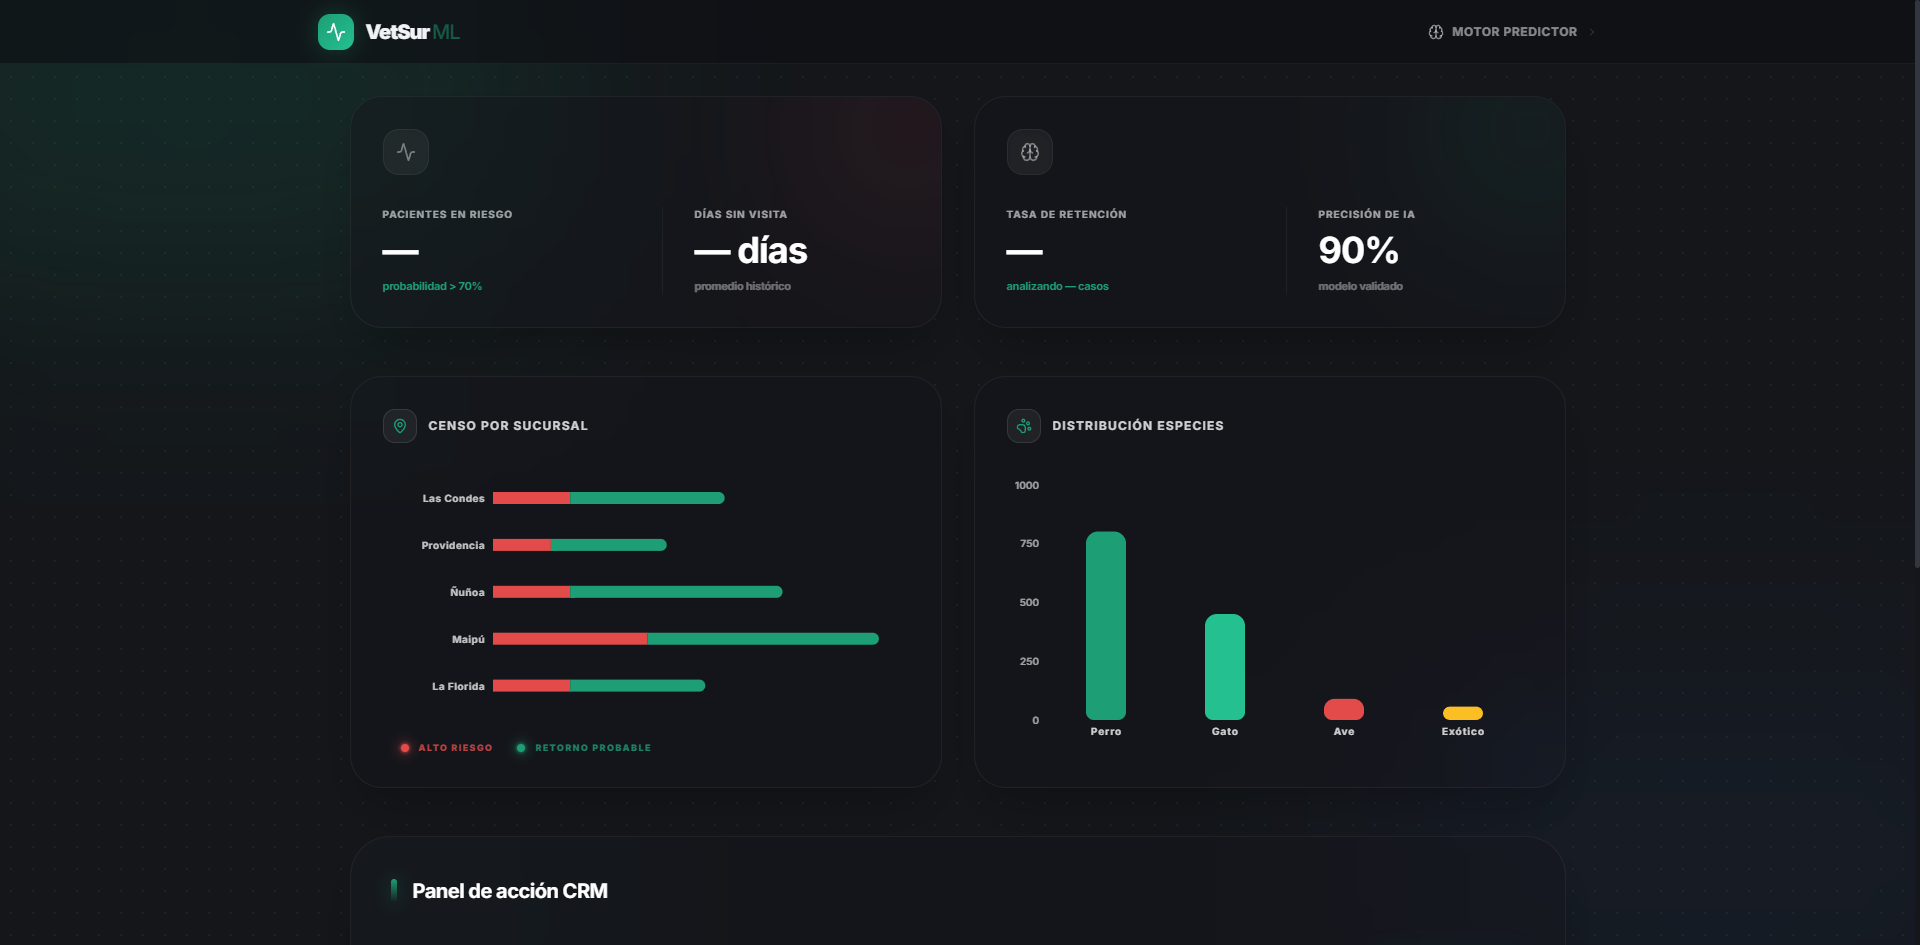
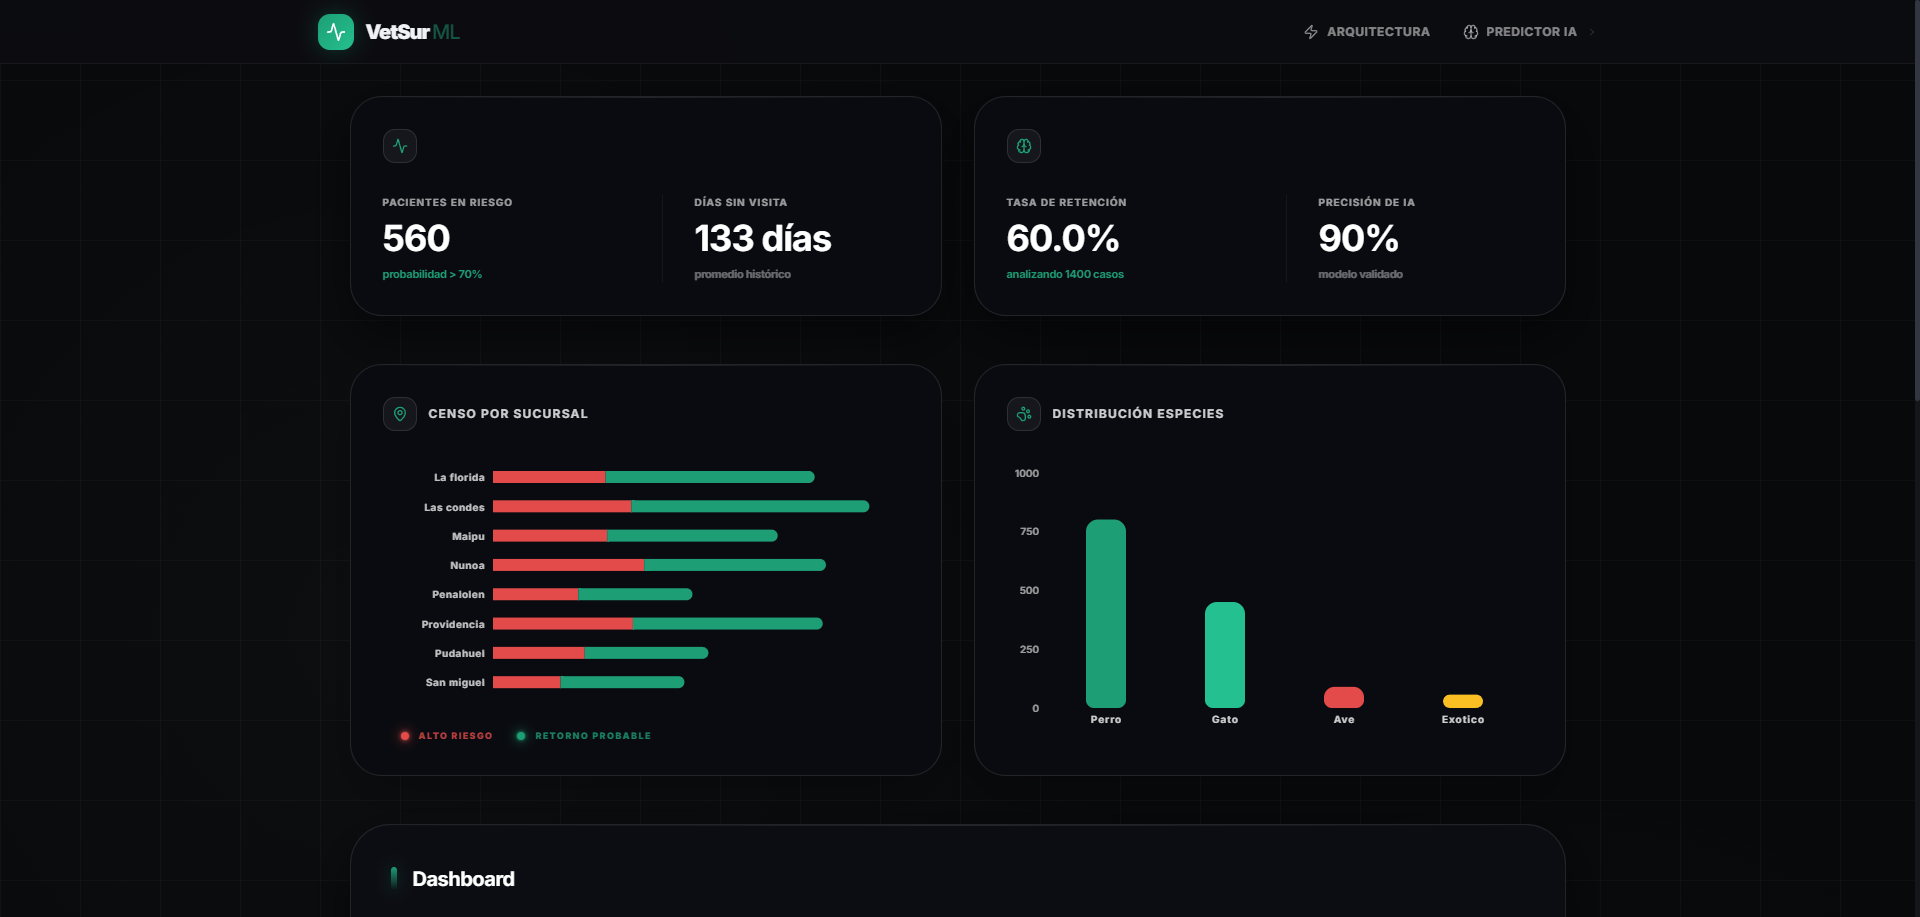
vetsur: actualización final de documentación, diagramas y arquitectura

diff --git a/api/modelo.py b/api/modelo.py
@@ -136,7 +136,7 @@ class ModeloVetSur:
         df_prep['edad_mascota_anios'] = df_clean['edad_mascota_anios'].fillna(0)
         df_prep['raza_registrada'] = df_clean['raza_registrada'].apply(lambda x: 1 if x is True or x == 1 else 0)
 
-        # Mapeo dinámico de variables categóricas (One-Hot Encoding)
+        # Mapeo de variables categóricas (One-Hot Encoding)
         for col in self.columnas_esperadas:
             if col not in df_prep.columns:
                 df_prep[col] = 0

diff --git a/README.md b/README.md
@@ -7,6 +7,7 @@
 [![Docker](https://img.shields.io/badge/Docker-Dockerized-2496ed?style=for-the-badge&logo=docker)](https://www.docker.com/)
 [![scikit-learn](https://img.shields.io/badge/scikit--learn-RF%2086%25-f7931e?style=for-the-badge&logo=scikit-learn)](https://scikit-learn.org/)
 [![TypeScript](https://img.shields.io/badge/TypeScript-Ready-3178c6?style=for-the-badge&logo=typescript)](https://www.typescriptlang.org/)
+[![GitHub Actions](https://img.shields.io/badge/GitHub_Actions-CI/CD-2088FF?style=for-the-badge&logo=github-actions)](https://github.com/features/actions)
 
 ### 🚀 [Acceder a la plataforma en vivo](https://vetsur.daemonize.me)
 
@@ -15,20 +16,32 @@
 ---
 
 ## El desafío del negocio
-> **Nota:** Este proyecto es un **ejercicio académico** basado en un caso de estudio para Vetsur Servicios Veterinarios SpA.
+> **Nota:** este proyecto es un **ejercicio académico** basado en un caso de estudio para Vetsur Servicios Veterinarios SpA.
 
-A pesar de facturar aprox. $2.800 millones anuales, Vetsur operaba con sistemas locales (VetManager) y silos de información. Rodrigo Maturana, el fundador, carecía de visibilidad sobre la rentabilidad real de cada sede y el desempeño de los 47 empleados. 
+Vetsur enfrentaba un escenario crítico: a pesar de facturar aprox. $2.800 millones anuales, la empresa operaba "a ciegas" mediante metodologías de información locales. El objetivo de este proyecto es centralizar esa información y aplicar un ciclo de vida de datos basado en el paradigma **CRISP-DM**:
 
-## Vista del dashboard
+- **Entendimiento y preparación:** el proceso se inició con datos en bruto de **Excel**. Se utilizó **Google Colab** para la limpieza inicial y el análisis exploratorio.
+- **Ingeniería de datos (ETL):** se diseñó un pipeline de transformación para convertir datos ruidosos en conocimiento útil, exportando las características en **JSON** y guardando los metadatos para la inferencia.
+- **Modelado predictivo:** se entrenó un modelo de **Random Forest** para capturar patrones de comportamiento de los pacientes. El modelo final se guardó en formato **PKL**.
+- **Despliegue de producto:** finalmente, se trasladó la lógica del notebook a una arquitectura de microservicios con una **API en FastAPI** y un **frontend** para facilitar la consulta de predicciones.
+
+## Vista de la plataforma
 <p align="center">
-  <img src="docs/vetsur_dashboard_final.png" alt="Dashboard de Vetsur" width="900">
+  <img src="docs/vetsur_dashboard_final.png" alt="Dashboard Principal" width="900">
+  <br><br>
+  <img src="docs/dashboard_usuarios.png" alt="Gestión de Usuarios" width="900">
+  <br><br>
+  <img src="docs/vetsur_predictor_final.png" alt="Predictor de Riesgo" width="900">
 </p>
 
 ## Proceso de ingeniería de datos (ETL)
-No se optó por la eliminación de registros, sino por una reconstrucción lógica documentada en nuestro pipeline:
+En lugar de la eliminación de registros, se optó por reconstruir la lógica de los datos en el pipeline:
 - **Normalización automatizada:** implementación de la librería `ftfy` para reparar la doble decodificación corrupta en variables categóricas.
-- **Imputación estadística:** uso de la **mediana** como medida robusta frente a los valores atípicos (outliers) encontrados en cirugías de alto costo.
-- **Refactorización de esquema:** evolución de un esquema estrella a un **esquema de galaxia**, separando los hechos de atención (`FACT_ATENCION`) de los movimientos de inventario (`FACT_INVENTARIO`).
+- **Codificación categórica:** aplicación de **One-Hot Encoding** para transformar variables como especie, sucursal y tipo de atención en vectores numéricos procesables por el modelo.
+- **Imputación estadística:** uso de la **mediana** como medida robusta frente a los valores atípicos encontrados en cirugías de alto costo.
+
+## Modelado de datos (BI)
+Se evolucionó de un esquema estrella a un **esquema de galaxia**, separando los hechos de atención de los movimientos de inventario:
 
 <p align="center">
   <img src="docs/diagrama_vetsur_final.png" alt="Esquema de galaxia - vetsur" width="800">
@@ -37,29 +50,61 @@ No se optó por la eliminación de registros, sino por una reconstrucción lógi
 </p>
 
 ## Modelado y hallazgos analíticos
-Evaluamos regresión lineal y gradient boosting, pero el ganador indiscutible fue **Random Forest**.
+Se evaluaron modelos de Regresión Lineal y Gradient Boosting, pero el modelo que mejor se adaptó a los datos fue **Random Forest**.
 
 ### Métricas clave del modelo
 - **Precisión (accuracy):** 86%.
-- **Exhaustividad (recall):** 91%. Priorizamos el recall para minimizar los falsos negativos, ya que para Vetsur es más costoso perder un cliente en peligro de fuga que realizar un contacto preventivo innecesario.
+- **Exhaustividad (recall):** 91%. Se buscó maximizar el recall para minimizar los falsos negativos, ya que para Vetsur es más costoso perder un cliente en peligro de fuga que realizar un contacto preventivo innecesario.
 
+
+
+## Despliegue continuo (CI/CD)
+Se ha implementado un flujo automático para garantizar que el sistema sea fácil de mantener y actualizar:
+- **Integración con Docker Hub:** las imágenes del frontend y backend se compilan y suben a un registro externo para no saturar recursos del VPS.
+- **Automatización con GitHub Actions:** cada push a la rama principal dispara el proceso de build y validación.
+- **Despliegue atómico:** el VPS descarga las imágenes nuevas y reinicia los contenedores solo si la compilación fue exitosa.
+
+## Arquitectura de despliegue y stack tecnológico
 <p align="center">
-  <img src="docs/vetsur_predictor_final.png" alt="Predictor de riesgo" width="900">
+  <img src="docs/vetsur.drawio.png" alt="Arquitectura del sistema" width="800">
 </p>
 
-## Arquitectura del sistema (stack pro)
-Diseñamos una infraestructura de microservicios para producción real:
+La plataforma funciona con una infraestructura de microservicios, e incluye una [sección de arquitectura interactiva](https://vetsur.daemonize.me/arquitectura) para explicar el flujo de datos.
 
-- **Backend (FastAPI):** motor de inferencia en Python que carga el Random Forest serializado.
-- **Frontend (Next.js & TypeScript):** interfaz reactiva con filtros dinámicos por sucursal y riesgo.
-- **Infraestructura cloud:**
-    - **Contenerización:** arquitectura orquestada con Docker Compose (API + Front + Nginx).
-    - **Proxy inverso:** Nginx gestionando el enrutamiento y la seguridad SSL.
-    - **VPS (DigitalOcean):** despliegue en un Droplet escalable.
+- **Frontend (interfaz reactiva):**
+    - **Framework:** Next.js 14 (App Router) con TypeScript.
+    - **Diseño:** Interfaz moderna en modo oscuro construida con Tailwind CSS y animaciones fluidas.
+    - **Visualización:** Recharts para los gráficos y Lucide Icons.
+- **Backend (motor de IA):**
+    - **Framework:** FastAPI (Python) para un procesamiento de inferencia de alto rendimiento.
+    - **Ciencia de datos:** Scikit-learn (Random Forest), Pandas para manipulación y NumPy.
+    - **Serialización:** Joblib para la carga eficiente del modelo entrenado.
+- **Infraestructura y DevOps:**
+    - **Contenerización:** arquitectura orquestada con Docker y despliegue mediante Docker Hub.
+    - **CI/CD:** flujos automatizados en GitHub Actions para compilación y despliegue atómico.
+    - **Servidor:** DigitalOcean Droplet protegido por un proxy inverso Nginx con cifrado SSL.
 
 ## Ejecución local
-Clone el repositorio y levante el ecosistema completo con Docker:
+
+### Opción A: con Docker (Recomendado)
+Levante el ecosistema completo (Frontend, Backend y Nginx) con un solo comando:
 ```bash
 docker-compose up -d --build
 ```
-La plataforma se levantará automáticamente en el puerto 3000. 
+
+### Opción B: desarrollo manual (sin Docker)
+Si prefiere ejecutar los servicios por separado para desarrollo:
+
+1. **Backend (Python):**
+   ```bash
+   cd api
+   pip install -r requirements.txt
+   uvicorn main:app --host 0.0.0.0 --port 8008 --reload
+   ```
+
+2. **Frontend (Next.js):**
+   ```bash
+   cd frontend
+   npm install
+   npm run dev
+   ```
